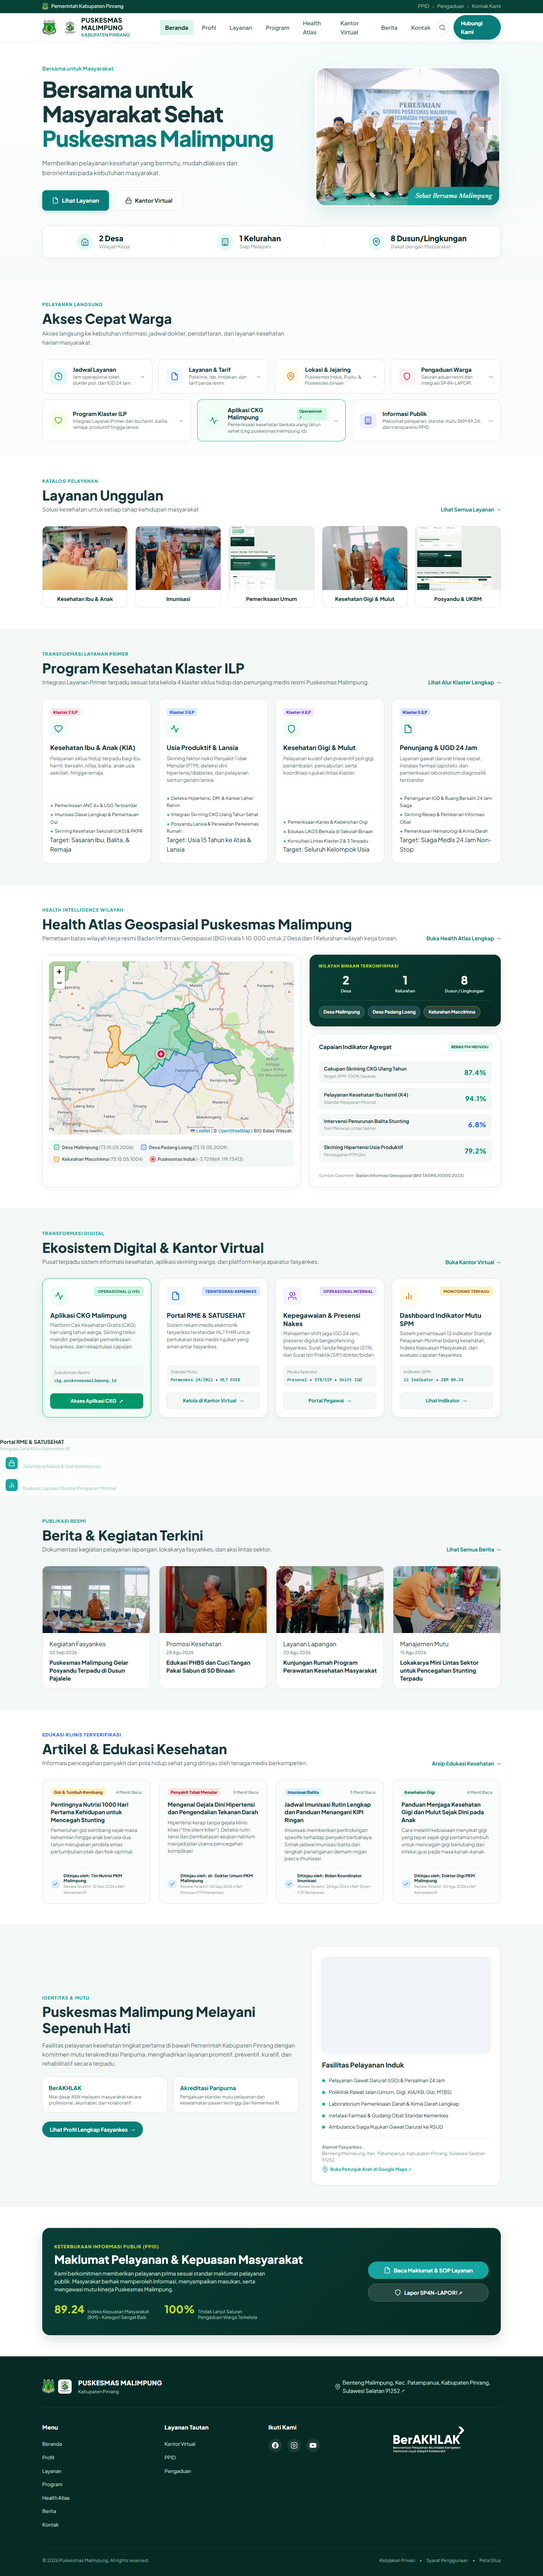
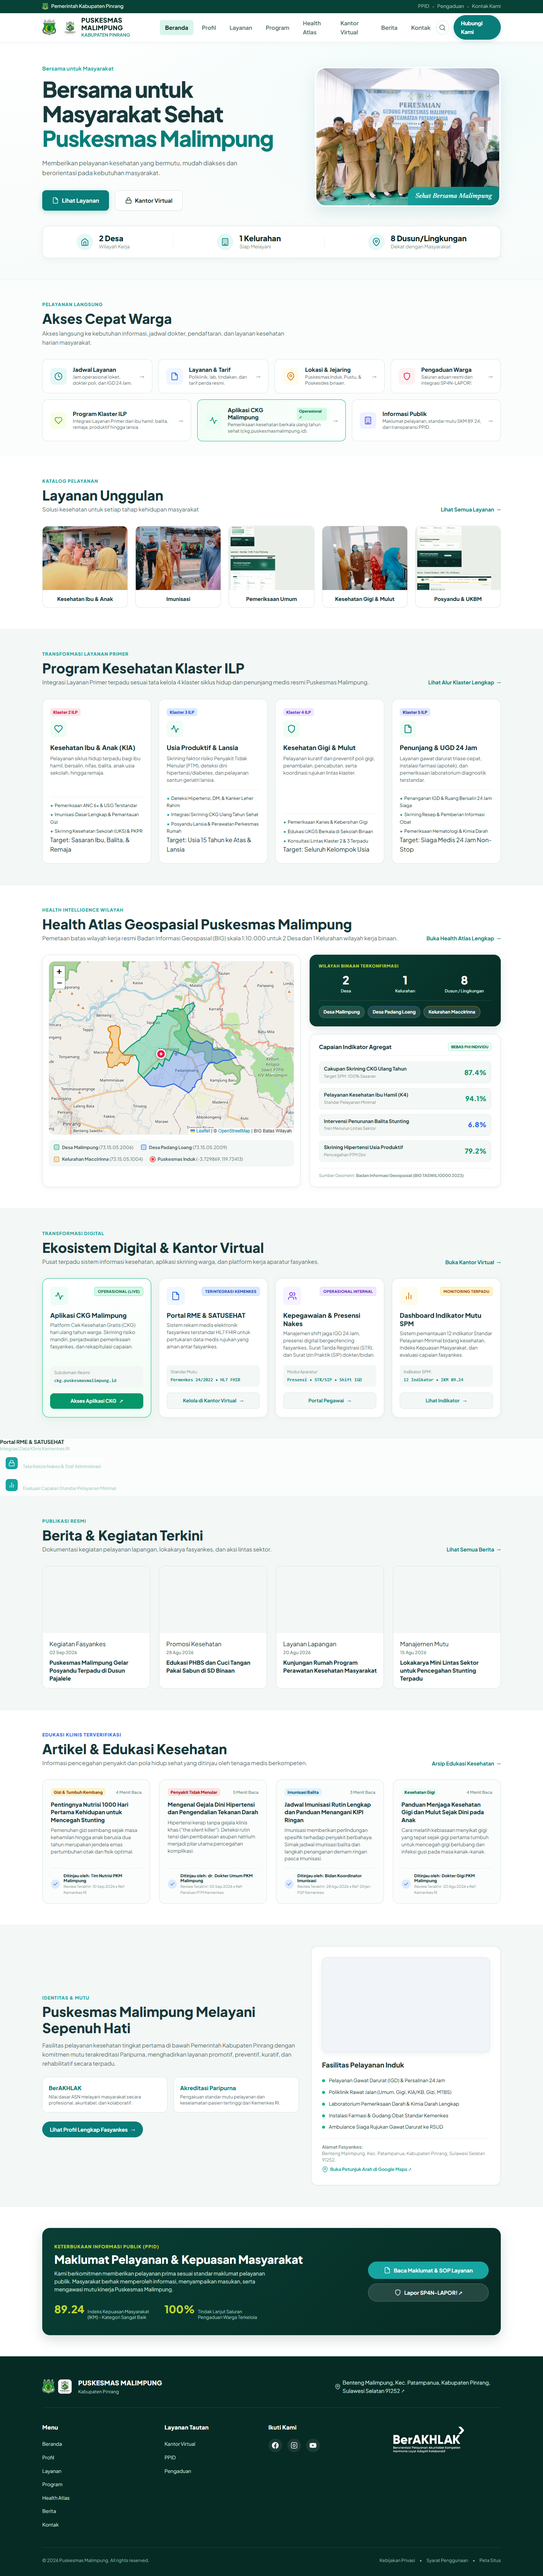
refactor(polish): audit mendalam HTML a11y, deklarasi CSS variable fallback, optimasi lazy loading gambar, penutupan kurung kurawal fungsi peta, dan auto-refit resize handler

Changed region(s): [[0.0625, 0.5931, 0.9375, 0.6555]]

diff --git a/prototype/index.html b/prototype/index.html
@@ -89,7 +89,7 @@
   <div class="topbar">
     <div class="container">
       <div class="topbar-left">
-        <img src="assets/logo_pinrang.png" alt="" class="topbar-badge-icon" aria-hidden="true">
+        <img src="assets/logo_pinrang.png" alt="Lambang Kabupaten Pinrang" class="topbar-badge-icon">
         <span>Pemerintah Kabupaten Pinrang</span>
       </div>
       <div class="topbar-right">
@@ -150,8 +150,8 @@
     <div class="mobile-nav-drawer">
       <div class="mobile-nav-header">
         <div class="brand-logos" style="gap: 0.5rem;">
-          <img src="assets/logo_pinrang.png" alt="" style="height: 32px; width: auto;">
-          <img src="assets/logo_puskesmas_malimpung.png" alt="" style="height: 32px; width: auto;">
+          <img src="assets/logo_pinrang.png" alt="Pemerintah Kabupaten Pinrang" style="height: 32px; width: auto;">
+          <img src="assets/logo_puskesmas_malimpung.png" alt="Puskesmas Malimpung" style="height: 32px; width: auto;">
         </div>
         <div class="brand-info">
           <span class="brand-title" style="font-size: 0.9375rem;">PUSKESMAS MALIMPUNG</span>
@@ -403,7 +403,7 @@
           <div class="featured-services-grid">
             <a href="#services" data-go="services" class="featured-svc-card">
               <div class="featured-svc-img-frame">
-                <img src="assets/layanan_kia.webp" alt="Kesehatan Ibu & Anak Puskesmas Malimpung" class="featured-svc-img">
+                <img src="assets/layanan_kia.webp" alt="Kesehatan Ibu & Anak Puskesmas Malimpung" class="featured-svc-img" loading="lazy" decoding="async" width="400" height="260">
               </div>
               <div class="featured-svc-body">
                 <h3 class="featured-svc-title">Kesehatan Ibu & Anak</h3>
@@ -412,7 +412,7 @@
 
             <a href="#services" data-go="services" class="featured-svc-card">
               <div class="featured-svc-img-frame">
-                <img src="assets/layanan_imunisasi.webp" alt="Imunisasi Puskesmas Malimpung" class="featured-svc-img">
+                <img src="assets/layanan_imunisasi.webp" alt="Imunisasi Puskesmas Malimpung" class="featured-svc-img" loading="lazy" decoding="async" width="400" height="260">
               </div>
               <div class="featured-svc-body">
                 <h3 class="featured-svc-title">Imunisasi</h3>
@@ -421,7 +421,7 @@
 
             <a href="#services" data-go="services" class="featured-svc-card">
               <div class="featured-svc-img-frame">
-                <img src="assets/layanan_umum.webp" alt="Pemeriksaan Umum Dokter Puskesmas Malimpung" class="featured-svc-img">
+                <img src="assets/layanan_umum.webp" alt="Pemeriksaan Umum Dokter Puskesmas Malimpung" class="featured-svc-img" loading="lazy" decoding="async" width="400" height="260">
               </div>
               <div class="featured-svc-body">
                 <h3 class="featured-svc-title">Pemeriksaan Umum</h3>
@@ -430,7 +430,7 @@
 
             <a href="#services" data-go="services" class="featured-svc-card">
               <div class="featured-svc-img-frame">
-                <img src="assets/layanan_gigi.webp" alt="Kesehatan Gigi & Mulut Puskesmas Malimpung" class="featured-svc-img">
+                <img src="assets/layanan_gigi.webp" alt="Kesehatan Gigi & Mulut Puskesmas Malimpung" class="featured-svc-img" loading="lazy" decoding="async" width="400" height="260">
               </div>
               <div class="featured-svc-body">
                 <h3 class="featured-svc-title">Kesehatan Gigi & Mulut</h3>
@@ -439,7 +439,7 @@
 
             <a href="#services" data-go="services" class="featured-svc-card">
               <div class="featured-svc-img-frame">
-                <img src="assets/layanan_posyandu.webp" alt="Posyandu & UKBM Puskesmas Malimpung" class="featured-svc-img">
+                <img src="assets/layanan_posyandu.webp" alt="Posyandu & UKBM Puskesmas Malimpung" class="featured-svc-img" loading="lazy" decoding="async" width="400" height="260">
               </div>
               <div class="featured-svc-body">
                 <h3 class="featured-svc-title">Posyandu & UKBM</h3>
@@ -808,7 +808,7 @@
           <div class="news-cards-grid">
             <article class="news-feed-card" onclick="navigate('news')">
               <div class="news-feed-thumb">
-                <img src="assets/berita_posyandu.webp" alt="Posyandu Terpadu di Dusun Pajalele" class="news-feed-img">
+                <img src="assets/berita_posyandu.webp" alt="Posyandu Terpadu di Dusun Pajalele" class="news-feed-img" loading="lazy" decoding="async" width="400" height="240">
               </div>
               <div class="news-feed-content">
                 <span class="news-feed-badge">Kegiatan Fasyankes</span>
@@ -819,7 +819,7 @@
 
             <article class="news-feed-card" onclick="navigate('news')">
               <div class="news-feed-thumb">
-                <img src="assets/berita_phbs.webp" alt="Edukasi PHBS di Sekolah Dasar" class="news-feed-img">
+                <img src="assets/berita_phbs.webp" alt="Edukasi PHBS di Sekolah Dasar" class="news-feed-img" loading="lazy" decoding="async" width="400" height="240">
               </div>
               <div class="news-feed-content">
                 <span class="news-feed-badge">Promosi Kesehatan</span>
@@ -830,7 +830,7 @@
 
             <article class="news-feed-card" onclick="navigate('news')">
               <div class="news-feed-thumb">
-                <img src="assets/berita_bumil.webp" alt="Kunjungan Rumah Perkesmas di Desa Padang Loang" class="news-feed-img">
+                <img src="assets/berita_bumil.webp" alt="Kunjungan Rumah Perkesmas di Desa Padang Loang" class="news-feed-img" loading="lazy" decoding="async" width="400" height="240">
               </div>
               <div class="news-feed-content">
                 <span class="news-feed-badge">Layanan Lapangan</span>
@@ -841,7 +841,7 @@
 
             <article class="news-feed-card" onclick="navigate('news')">
               <div class="news-feed-thumb">
-                <img src="assets/berita_stunting.webp" alt="Lokakarya Mini Lintas Sektor Patampanua" class="news-feed-img">
+                <img src="assets/berita_stunting.webp" alt="Lokakarya Mini Lintas Sektor Patampanua" class="news-feed-img" loading="lazy" decoding="async" width="400" height="240">
               </div>
               <div class="news-feed-content">
                 <span class="news-feed-badge">Manajemen Mutu</span>
@@ -1986,7 +1986,7 @@
                 <!-- Artikel 1 -->
                 <article class="news-item-card" data-category="kegiatan">
                   <div class="news-item-thumb">
-                    <img src="assets/berita_posyandu.webp" alt="Puskesmas Malimpung Gelar Posyandu Terpadu di Dusun Pajalele" class="news-item-img">
+                    <img src="assets/berita_posyandu.webp" alt="Puskesmas Malimpung Gelar Posyandu Terpadu di Dusun Pajalele" class="news-item-img" loading="lazy" decoding="async" width="400" height="240">
                   </div>
                   <div class="news-item-body">
                     <div class="news-item-meta">
@@ -2004,7 +2004,7 @@
                 <!-- Artikel 2 -->
                 <article class="news-item-card" data-category="edukasi">
                   <div class="news-item-thumb">
-                    <img src="assets/berita_phbs.webp" alt="Edukasi PHBS di Sekolah Dasar" class="news-item-img">
+                    <img src="assets/berita_phbs.webp" alt="Edukasi PHBS di Sekolah Dasar" class="news-item-img" loading="lazy" decoding="async" width="400" height="240">
                   </div>
                   <div class="news-item-body">
                     <div class="news-item-meta">
@@ -2022,7 +2022,7 @@
                 <!-- Artikel 3 -->
                 <article class="news-item-card" data-category="program">
                   <div class="news-item-thumb">
-                    <img src="assets/berita_bumil.webp" alt="Kunjungan Ibu Hamil di Wilayah Kerja" class="news-item-img">
+                    <img src="assets/berita_bumil.webp" alt="Kunjungan Ibu Hamil di Wilayah Kerja" class="news-item-img" loading="lazy" decoding="async" width="400" height="240">
                   </div>
                   <div class="news-item-body">
                     <div class="news-item-meta">
@@ -2040,7 +2040,7 @@
                 <!-- Artikel 4 -->
                 <article class="news-item-card" data-category="kegiatan">
                   <div class="news-item-thumb">
-                    <img src="assets/berita_stunting.webp" alt="Kolaborasi Lintas Sektor untuk Cegah Stunting" class="news-item-img">
+                    <img src="assets/berita_stunting.webp" alt="Kolaborasi Lintas Sektor untuk Cegah Stunting" class="news-item-img" loading="lazy" decoding="async" width="400" height="240">
                   </div>
                   <div class="news-item-body">
                     <div class="news-item-meta">
@@ -2085,21 +2085,21 @@
                 <h3 class="widget-title">Berita Populer</h3>
                 <div class="widget-popular-list">
                   <a href="#news" class="popular-item">
-                    <img src="assets/berita_posyandu.webp" alt="" class="popular-thumb">
+                    <img src="assets/berita_posyandu.webp" alt="Posyandu Terpadu di Dusun Pajalele" class="popular-thumb" loading="lazy">
                     <div>
                       <span class="popular-date">02 September 2026</span>
                       <h4 class="popular-title">Posyandu Terpadu di Dusun Pajalele</h4>
                     </div>
                   </a>
                   <a href="#news" class="popular-item">
-                    <img src="assets/berita_phbs.webp" alt="" class="popular-thumb">
+                    <img src="assets/berita_phbs.webp" alt="Edukasi PHBS di Sekolah Dasar" class="popular-thumb" loading="lazy">
                     <div>
                       <span class="popular-date">28 Agustus 2026</span>
                       <h4 class="popular-title">Edukasi PHBS di Sekolah Dasar</h4>
                     </div>
                   </a>
                   <a href="#news" class="popular-item">
-                    <img src="assets/berita_bumil.webp" alt="" class="popular-thumb">
+                    <img src="assets/berita_bumil.webp" alt="Kunjungan Ibu Hamil di Wilayah Kerja" class="popular-thumb" loading="lazy">
                     <div>
                       <span class="popular-date">20 Agustus 2026</span>
                       <h4 class="popular-title">Kunjungan Ibu Hamil di Wilayah Kerja</h4>

diff --git a/prototype/app.js b/prototype/app.js
@@ -491,6 +491,12 @@ function closeMobileNav() {
   }
 }
 
+window.navigate = navigate;
+window.openMobileNav = openMobileNav;
+window.closeMobileNav = closeMobileNav;
+window.openServiceDetail = openServiceDetail;
+window.closeServiceDetail = closeServiceDetail;
+
 // ---------------------------------------------------------------------------
 // 5. CMS STUDIO LOGIC
 // ---------------------------------------------------------------------------
@@ -734,6 +740,26 @@ function initHealthAtlasHomeMap() {
     });
 }
 window.initHealthAtlasHomeMap = initHealthAtlasHomeMap;
+
+// Auto Re-fit Peta Leaflet Saat Window Resize / Rotasi Layar Ponsel
+let mapResizeTimer = null;
+window.addEventListener('resize', () => {
+  clearTimeout(mapResizeTimer);
+  mapResizeTimer = setTimeout(() => {
+    if (healthAtlasHomeMap) {
+      healthAtlasHomeMap.invalidateSize();
+      if (healthAtlasHomeGeoJsonLayer) {
+        healthAtlasHomeMap.fitBounds(healthAtlasHomeGeoJsonLayer.getBounds(), { padding: [20, 20] });
+      }
+    }
+    if (healthAtlasMap) {
+      healthAtlasMap.invalidateSize();
+      if (healthAtlasGeoJsonLayer) {
+        healthAtlasMap.fitBounds(healthAtlasGeoJsonLayer.getBounds(), { padding: [30, 30] });
+      }
+    }
+  }, 250);
+});
 
 // ---------------------------------------------------------------------------
 // 7. TOAST HELPER

diff --git a/prototype/style.css b/prototype/style.css
@@ -28,6 +28,7 @@
   --jade-400: #2fc3a6;
   
   /* Tint & Surface Palette */
+  --mint-200: #bbf0d8;
   --mint-100: #d9f4e9;
   --mint-50: #effaf4;
   --warm-100: #fff0d8;
@@ -40,6 +41,7 @@
   --surface-alt: #f3f7f5;
   --surface-card: #ffffff;
   --ink: #112d27;
+  --ink-primary: #112d27;
   --ink-secondary: #4a665f;
   --ink-tertiary: #75928a;
   --border: #dbe7e1;
